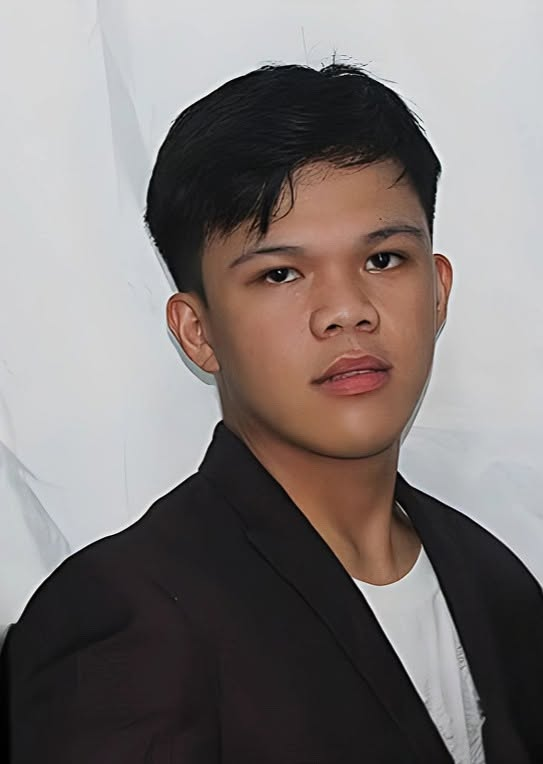
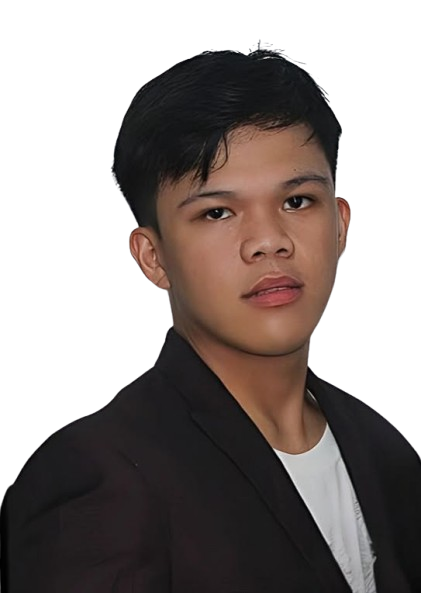
style: remove border from About portrait frame
Keep the gradient background and blue glow; only drop the border.

diff --git a/src/components/sections/About.jsx b/src/components/sections/About.jsx
@@ -49,7 +49,7 @@ export function About() {
           >
             <div className="relative max-w-md mx-auto lg:mx-0">
               <div className="absolute inset-0 bg-gradient-to-r from-blue/30 via-transparent to-transparent rounded-2xl blur-3xl -z-10" aria-hidden="true" />
-              <div className="relative aspect-[3/4] rounded-2xl overflow-hidden bg-gradient-to-br from-blue/20 via-blue-deep/30 to-bg border border-blue/20">
+              <div className="relative aspect-[3/4] rounded-2xl overflow-hidden bg-gradient-to-br from-blue/20 via-blue-deep/30 to-bg">
                 <SafeImage
                   src="/images/photo-of-me.jpg"
                   alt={`${profile.name} - Web Developer`}
